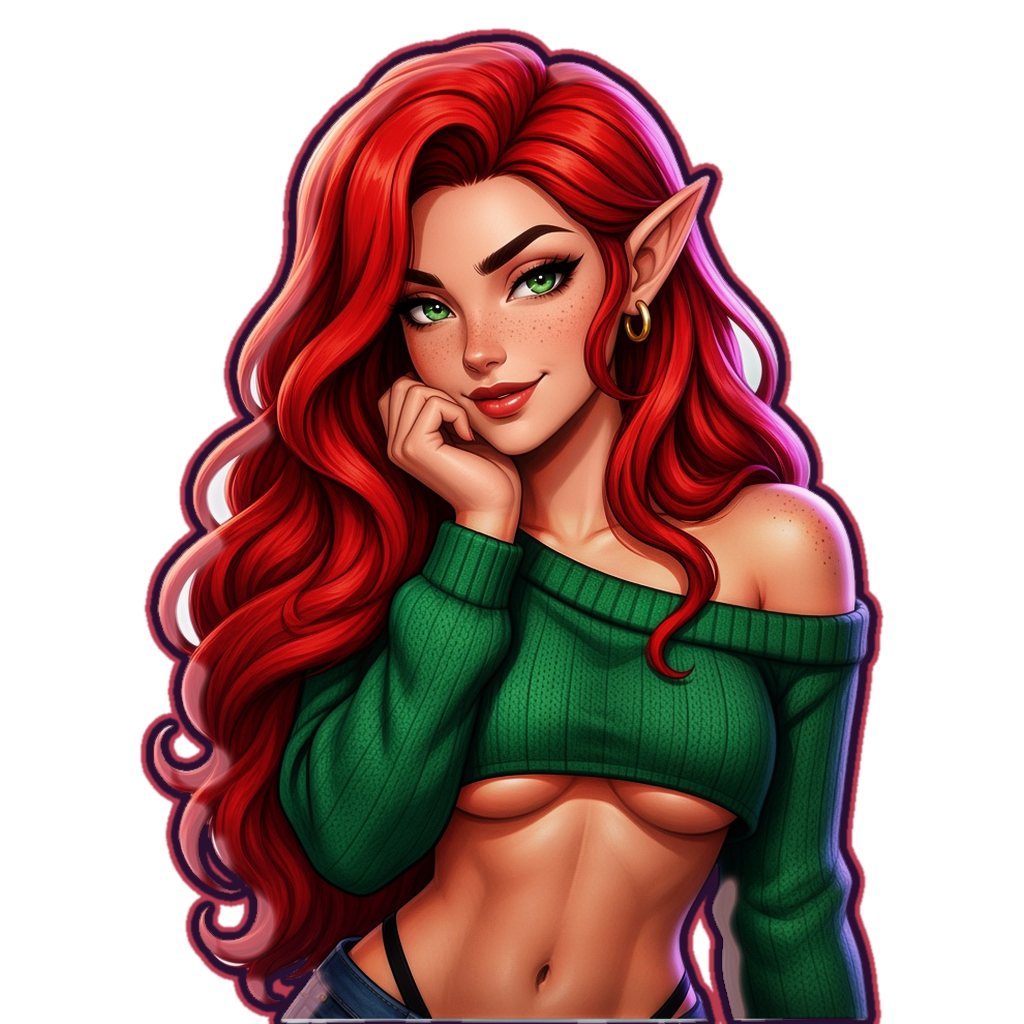
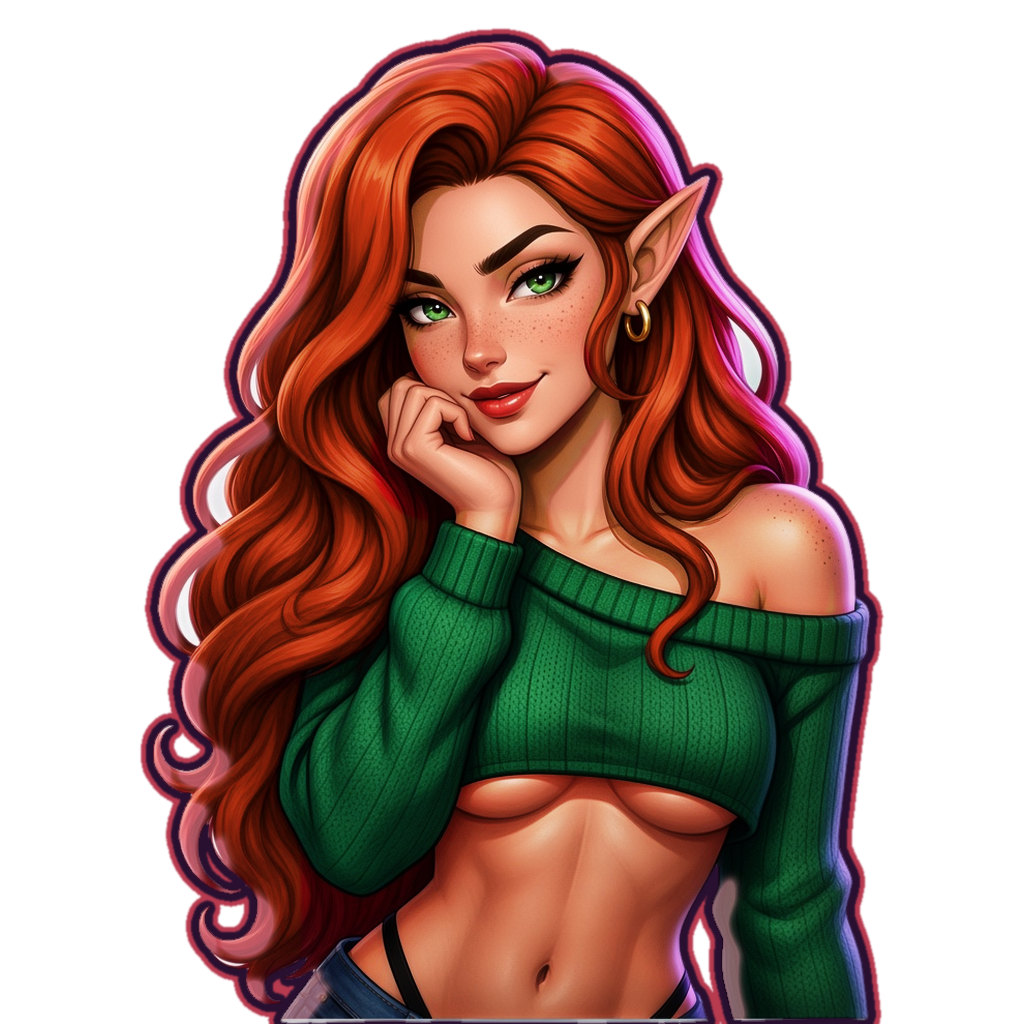
elfhaus: Coco symbol hair hue-shifted to the copper of her wild/stacks/cast (local hair-only edit) + reel blur strips regenerated; APPROVED_ASSETS.md

diff --git a/frontend/apps/elfhaus/APPROVED_ASSETS.md b/frontend/apps/elfhaus/APPROVED_ASSETS.md
@@ -35,6 +35,7 @@ Branch `final` is the integration branch. It holds **only** work the user has ap
 | Vi (H3) symbol iris matched to the lavender used by her stacks, reactions and cast (audit 20 drift). Local edit only: iris-coloured pixels inside the open eye (512 box 172,140-198,166; x2 on the 1024 PNG), hue +2 (OpenCV) toward the stack iris, saturation x0.62, value x1.06, feathered mask; hair, skin and everything else untouched. Unused `fx/sym_H3` win strip (SYM_STRIPS off) and the 192 px motion-blur reel strips not regenerated (iris not visible there) | `assets/final/webp/symbol_H3.webp`, `assets/final/symbol_H3.png`. Status: **in** | 2026-10-25 ~5:55 PM (user: match Vi's eyes to the majority) |
 | House-rule pass: loader bar animates `transform: scaleX` (was width), big-win title lift uses `translate` (was `top`, now on the board tempo), buy-card hover no longer transitions border/box-shadow, duplicate `<i>` switch knob hidden (Ante / Stop on feature showed two dots; the knob is `.sw::after` translateX). Retired working title scrubbed from ART_BIBLE.md / DECISIONS.md / this file (left only in README.md's GitHub repo URL, which is the repo's real name, not shipped). Checked: no nipples/genitals in symbols, wilds, stacks, win-screen cast, reactions, buy cards; Lounge is plum/neon, not brown; turbo = tempo 1 and tap/Space skip unchanged | `static/elfhaus.css` (end block), `src/game/loader.ts`, `assets/ART_BIBLE.md`, `design/DECISIONS.md`. Status: **in** | 2026-10-25 ~6:00 PM (standing rules) |
 | Side Roxy = one painted still + face overlays (replaces the `roxy_full_*` frame sheets, which are deleted): base still (cand3, painted3d_v2) + faces blink / eager / excited / wink_eye / disappointed (new, used on a miss). Motion is code-side, transform/opacity only: idle sway 0.6° / 6.5 s + breath scaleY 0.006 / 4 s about her feet, random blinks 3.5-6 s, 300 ms face crossfades; bonus anticipation = excited bounce (0.75 s cycle, 2.5% of height, light squash at contact, 1.2 s ease-in; turbo 0.5 s / 1.5%; Calm motion / reduced motion: no bounce); hit = one small hop at the next contact, then excited held 2.2 s; miss = bounce settles over 0.6 s, disappointed face 2 s, then idle. Resident ~6 MB decoded (was ~30-70 MB), download ~0.24 MB (was ~8 MB) | `/workspace/elfhaus-roxy-still` (`game/roxy_base_2x.webp`, `faces/2x/*.png` -> lossless webp, `faces/offset.json` -> `roxy.json`) -> `static/assets/roxy/`; `src/game/roxy.ts` rewritten; hook in `bookEventHandlerMap.ts` reveal (tease resolves as the reels stop); `import-art.mjs roxy` now imports the still set; notes `elfhaus-roxy-still/INTEGRATION.md`, preview `review/roxy_anticipation.mp4`. Status: **in** | 2026-10-25 still approved ("they look good"); import ~5:30 PM ("Just finish Roxy and then build") |
+| Coco (H4) symbol hair matched to the copper of her wild, stacks and max-win cast (drift audit). Local edit only: saturated red hair pixels (hue <=12 / >=352 deg, S>0.65), face, hand and lower body masked out; hue +12 deg, S x0.97, V x0.96, feathered; skin, lips, eyes, sweater untouched. Reel blur strips regenerated (`gen_reelblur.py`) | `assets/final/webp/symbol_H4.webp`, `assets/final/symbol_H4.png`, `assets/final/fx/reel_strip{A,B}.webp`. Status: **in** | 2026-10-25 ~5:40 PM |
 | Pipeline/QA commits | 2c88dba fd709ea 477db47 576e609 0f992c6 9b509d6 11b3200 (import guard, dev PORT, egw_wm5 book, runbook, tsc fixes) | n/a (tooling) |
 
 ## Approved but held (do not import yet)
@@ -63,7 +64,6 @@ Branch `final` is the integration branch. It holds **only** work the user has ap
 ## Open findings (close-out pass 2026-10-25 ~6:00 PM, not changed; need a user call)
 | Finding | Detail |
 |---|---|
-| Coco hair drift | Symbol H4 hair is a cooler crimson red (hue ~10 deg, #AC322E avg) vs copper in her wild, stacks and max-win cast (hue 12-14 deg, #923322-#9E452E, visibly more orange). Fix would be a local hair hue shift on `symbol_H4` (same method as Vi's iris). |
 | Win-screen outfits differ from symbols | Roxy: symbol pink hoodie + white crop top; win screens pink bikini + hoodie. Vi: symbol red plaid shirt; win screens black strappy bra + plaid. Coco: green sweater on both, pink bra added on win screens. Cast v6 was approved as is. Jade and Delilah consistent; Jade's 27 is intentional. |
 | Old static WF / WM2-5 wild art | `assets/final/webp/wild_WF_fullreel.webp`, `wild_WM*` (dorm-room bunk-bed illustrations) are still the `.wart` fallback under the stacks sheets. Hidden whenever a stack canvas is present (`.ov:has(>canvas.stk_body)>.wart`), so only visible if a stacks sheet fails to load or before it draws. Not verified frame by frame. |
 | README repo URL | README.md still names the GitHub repo slug, which contains the retired working title. Only a GitHub rename fixes that; nothing is shipped. |
